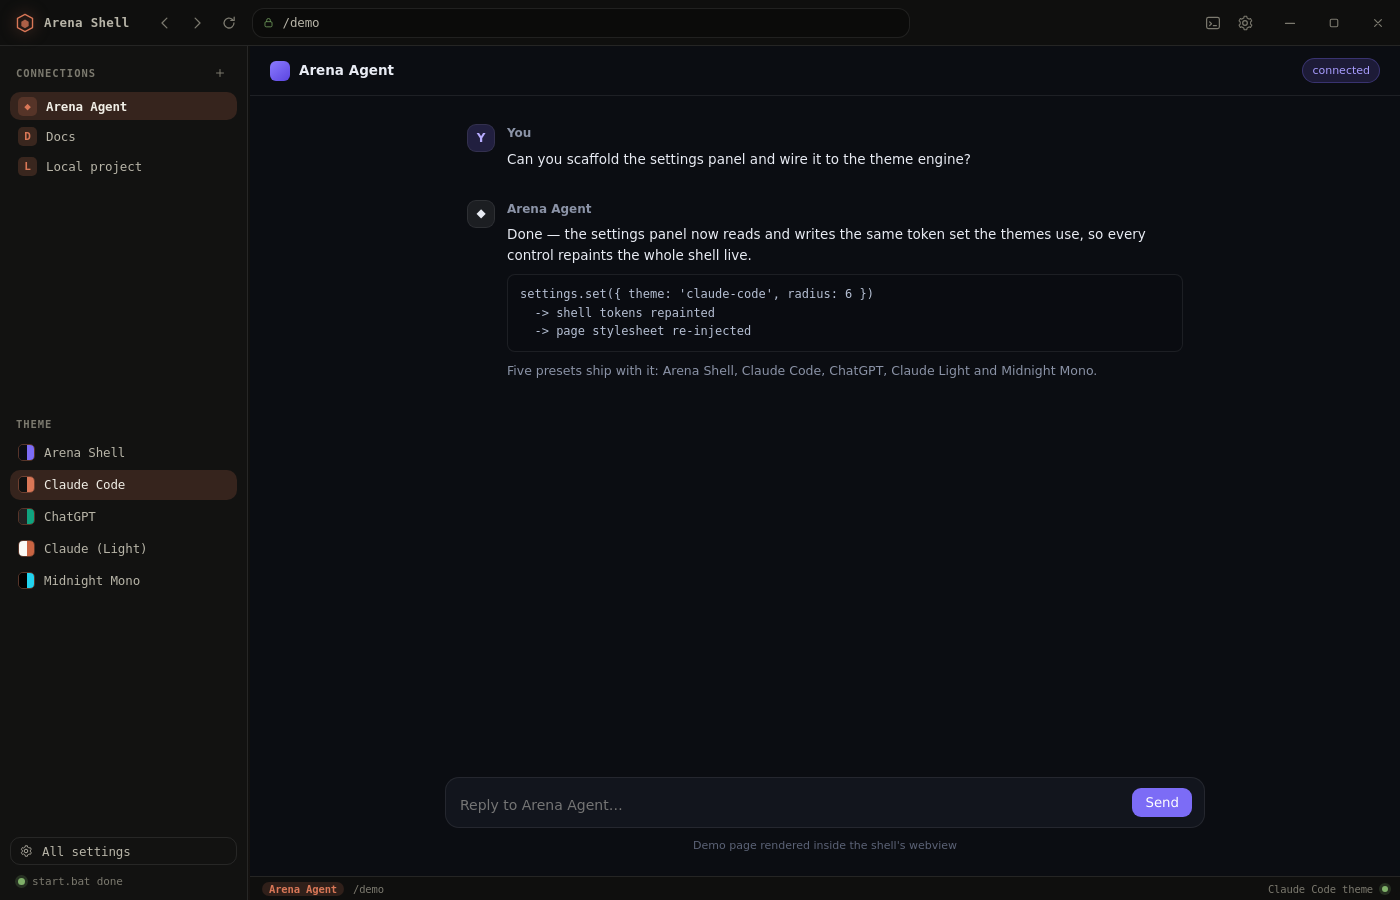
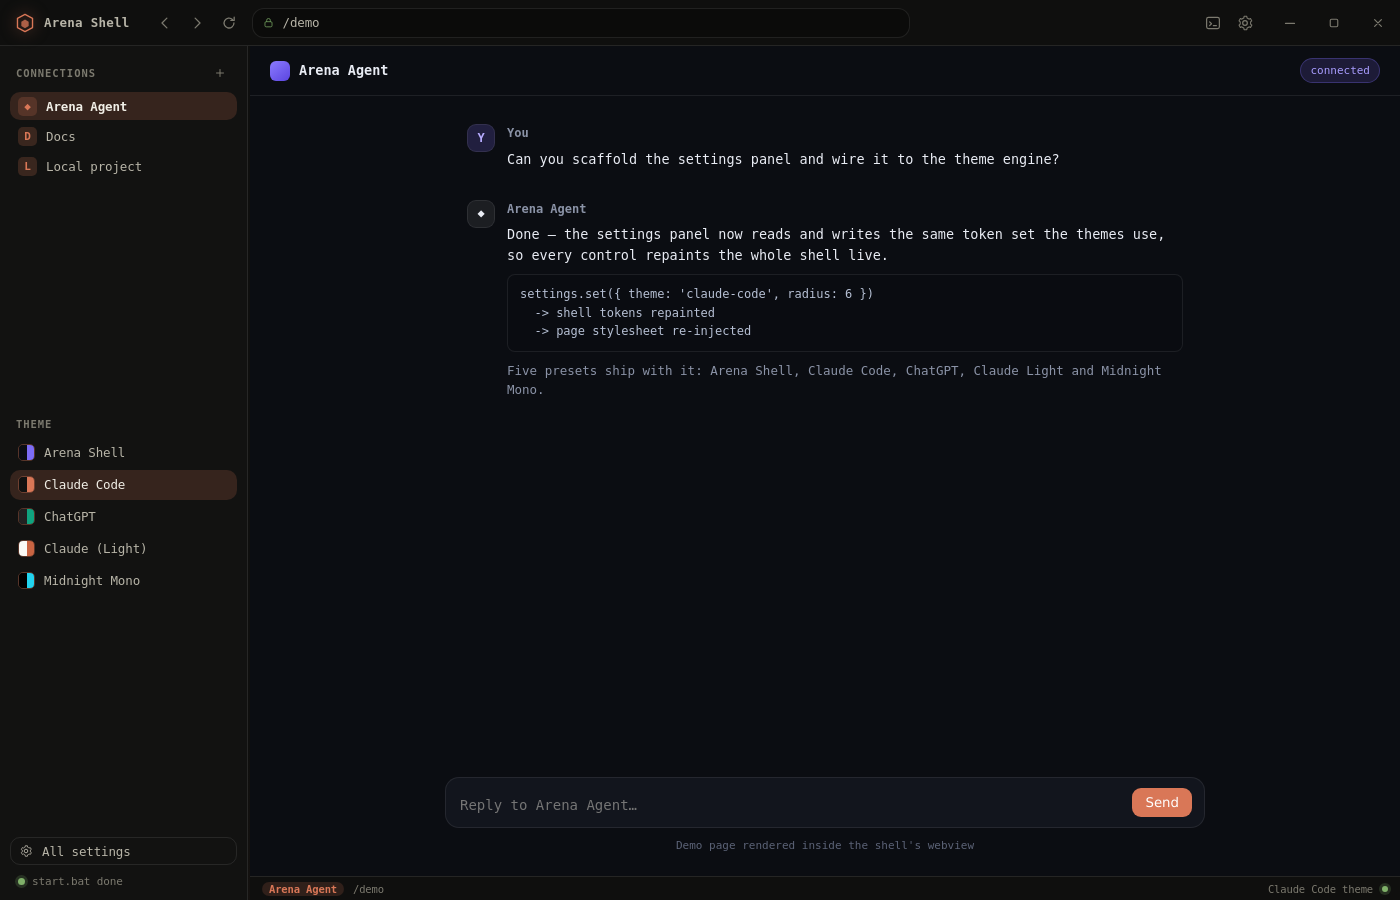
Preview: mirror theme tokens into the demo page; refresh screenshots
- preview-arena now forwards the same token bag the app injects into its
  webview, so 'subtle' vs 'full re-skin' are visible in the browser preview
- demo fixture applies tokens itself and reports readiness back to the shell
- docs: theme comparison table, README build instructions for docs/ci-build.yml

diff --git a/scripts/fixtures/demo-page.html b/scripts/fixtures/demo-page.html
@@ -20,7 +20,7 @@
     flex-direction: column;
     background: var(--bg);
     color: var(--text);
-    font: 14px/1.55 'Inter', system-ui, -apple-system, sans-serif;
+    font: 14px/1.55 var(--ui-font, 'Inter', system-ui, -apple-system, sans-serif);
   }
   .top {
     display: flex; align-items: center; justify-content: space-between;
@@ -34,7 +34,9 @@
   }
   .badge {
     font-size: 11px; padding: 3px 9px; border-radius: 999px;
-    background: rgba(124,108,246,.16); color: #a99dff; border: 1px solid rgba(124,108,246,.3);
+    background: color-mix(in srgb, var(--accent) 16%, transparent);
+    color: var(--accent);
+    border: 1px solid color-mix(in srgb, var(--accent) 34%, transparent);
   }
   .main { flex: 1; overflow: auto; display: flex; }
   .feed { flex: 1; max-width: 760px; margin: 0 auto; padding: 28px 22px 140px; }
@@ -50,8 +52,8 @@
   .bubble p { margin: 0 0 8px; }
   .code {
     font-family: 'JetBrains Mono', Consolas, monospace; font-size: 12px;
-    background: #0a0c11; border: 1px solid var(--line); border-radius: 8px;
-    padding: 10px 12px; color: #b6c0d4; white-space: pre-wrap;
+    background: color-mix(in srgb, var(--panel) 70%, #000); border: 1px solid var(--line); border-radius: 8px;
+    padding: 10px 12px; color: var(--muted); white-space: pre-wrap;
   }
   .composer-wrap { position: sticky; bottom: 0; padding: 0 22px 22px; }
   .composer {
@@ -103,5 +105,54 @@
     </div>
     <div class="hint">Demo page rendered inside the shell's webview</div>
   </div>
+<script>
+  // Stands in for the CSS the real shell injects into its <webview>.
+  const root = document.documentElement;
+  window.addEventListener('message', (e) => {
+    const d = e.data;
+    if (!d || d.type !== 'arena-theme') return;
+    const t = d.tokens || {};
+    const mode = d.mode || 'subtle';
+
+    // always: fonts + accent, like the "subtle" level
+    if (t['font-ui']) root.style.setProperty('--ui-font', t['font-ui']);
+    if (t.accent) root.style.setProperty('--accent', t.accent);
+    root.style.setProperty('--ui-font', t['font-ui'] || 'Inter, system-ui, sans-serif');
+    document.body.style.fontFamily = t['font-ui'] || '';
+
+    if (mode === 'aggressive') {
+      const bg = t['bg-app'] || '#0b0d12';
+      const panel = t['bg-elev'] || '#12151d';
+      const text = t.text || '#e9ecf4';
+      const line = t.border || 'rgba(255,255,255,.08)';
+      root.style.setProperty('--bg', bg);
+      root.style.setProperty('--panel', panel);
+      root.style.setProperty('--text', text);
+      root.style.setProperty('--line', line);
+      root.style.setProperty('--muted', t['text-mute'] || '#8b93a7');
+      root.style.setProperty('--accent', t.accent || '#7c6cf6');
+      document.body.setAttribute('data-scheme', t['bg-app'] && isLight(t['bg-app']) ? 'light' : 'dark');
+    } else {
+      for (const k of ['--bg', '--panel', '--text', '--line', '--muted']) root.style.removeProperty(k);
+      document.body.removeAttribute('data-scheme');
+    }
+
+    if (d.customCss) {
+      let tag = document.getElementById('arena-custom');
+      if (!tag) { tag = document.createElement('style'); tag.id = 'arena-custom'; document.head.appendChild(tag); }
+      tag.textContent = d.customCss;
+    }
+    if (d.zoom) document.body.style.zoom = d.zoom;
+  });
+
+  function isLight(hex) {
+    const m = /^#?([a-f\d]{2})([a-f\d]{2})([a-f\d]{2})$/i.exec(hex || '');
+    if (!m) return false;
+    const [r, g, b] = [1, 2, 3].map((i) => parseInt(m[i], 16));
+    return (0.299 * r + 0.587 * g + 0.114 * b) > 140;
+  }
+
+  parent.postMessage({ type: 'arena-preview-ready' }, '*');
+</script>
 </body>
 </html>

diff --git a/scripts/preview-arena.js b/scripts/preview-arena.js
@@ -38,6 +38,26 @@
     openDevTools: false
   };
 
+  /**
+   * The real app injects CSS into the <webview> from the main world. A browser
+   * can't do that across an iframe boundary, so the preview forwards the same
+   * tokens and the demo page applies them itself. Same input, same output.
+   */
+  function mirrorThemeToPage() {
+    const frame = document.getElementById('webview');
+    if (!frame || !frame.contentWindow || !window.ArenaThemes) return;
+    frame.contentWindow.postMessage(
+      {
+        type: 'arena-theme',
+        tokens: window.ArenaThemes.tokens(state),
+        mode: state.pageStyling,
+        customCss: state.customCss || '',
+        zoom: state.pageZoom
+      },
+      '*'
+    );
+  }
+
   function load() {
     try {
       return Object.assign({}, DEFAULTS, JSON.parse(localStorage.getItem(KEY) || '{}'));
@@ -67,6 +87,11 @@
     { stream: 'shell', line: '[shell] script finished successfully — handing control back to the shell.' }
   ];
 
+  window.addEventListener('message', (e) => {
+    if (e.data && e.data.type === 'arena-preview-ready') mirrorThemeToPage();
+  });
+  window.__mirrorThemeToPage = mirrorThemeToPage;
+
   window.PREVIEW_MODE = true;
   window.arena = {
     settings: {
@@ -76,12 +101,14 @@
         state = { ...state, ...patch };
         save();
         changedCbs.forEach((cb) => cb(state));
+        setTimeout(mirrorThemeToPage, 30);
         return state;
       },
       reset: async () => {
         state = { ...DEFAULTS };
         save();
         changedCbs.forEach((cb) => cb(state));
+        setTimeout(mirrorThemeToPage, 30);
         return state;
       },
       export: async () => ({ ok: true, path: 'arena-shell-settings.json' }),

diff --git a/README.md b/README.md
@@ -4,19 +4,31 @@ A downloadable desktop app that **runs `start.bat` on launch**, then **connects 
 
 ![Arena Shell](docs/screens/01-default-arena.png)
 
+| Theme | Applied to the shell **and** the connected page |
+| --- | --- |
+| Claude Code | ![Claude Code](docs/screens/02-theme-claude-code.png) |
+| ChatGPT (full re-skin) | ![ChatGPT](docs/screens/03-theme-chatgpt-reskin.png) |
+| Claude Light (full re-skin) | ![Claude Light](docs/screens/04-theme-claude-light-reskin.png) |
+| Midnight Mono (full re-skin) | ![Midnight](docs/screens/05-theme-midnight-reskin.png) |
+
 ---
 
 ## Download & run
 
-### Option A — grab a prebuilt Windows `.exe` (recommended)
+### Option A — build the `.exe` once with GitHub Actions (recommended)
 
-1. Go to the **Actions** tab → **Build Arena Shell** → **Run workflow**.
-2. When it finishes, open the run and download the **`arena-shell-windows`** artifact.
-3. Unzip it and run:
-   - **`Arena-Shell-Portable-1.0.0.exe`** — no install, just double-click.
+This machine's GitHub token can't create workflow files, so enable the
+one-click build first:
+
+1. On GitHub, open **Actions** → **New workflow** → **set up a workflow yourself**.
+2. Name it `build.yml` and paste the contents of [`docs/ci-build.yml`](docs/ci-build.yml). Commit.
+3. Go to **Actions** → **Build Arena Shell** → **Run workflow**.
+4. When it's green, open the run and download the **`arena-shell-windows`** artifact.
+5. Unzip and double-click:
+   - **`Arena-Shell-Portable-1.0.0.exe`** — no install, just runs.
    - **`Arena-Shell-Setup-1.0.0.exe`** — normal installer (Start-menu entry, uninstaller).
 
-You can also tag a release and the workflow attaches both `.exe` files to it:
+Once the workflow exists, tagging also publishes both `.exe` files as a release:
 
 ```bash
 git tag v1.0.0 && git push origin v1.0.0
@@ -26,7 +38,7 @@ git tag v1.0.0 && git push origin v1.0.0
 
 ```bash
 npm install
-npm run dist:win     # -> dist/*.exe   (run this on Windows)
+npm run dist:win     # -> dist/*.exe  (must run on Windows)
 npm start            # or just run it locally without packaging
 ```
 
@@ -136,7 +148,7 @@ scripts/
   preview-server.js    run the UI in a normal browser (no Electron needed)
   screenshot.js        dev-only screenshot pass
 test/main.test.cjs     headless checks for main-process behaviour
-.github/workflows/     builds the .exe on CI
+docs/ci-build.yml       build recipe for the .exe (paste into Actions)
 ```
 
 ## Developing
